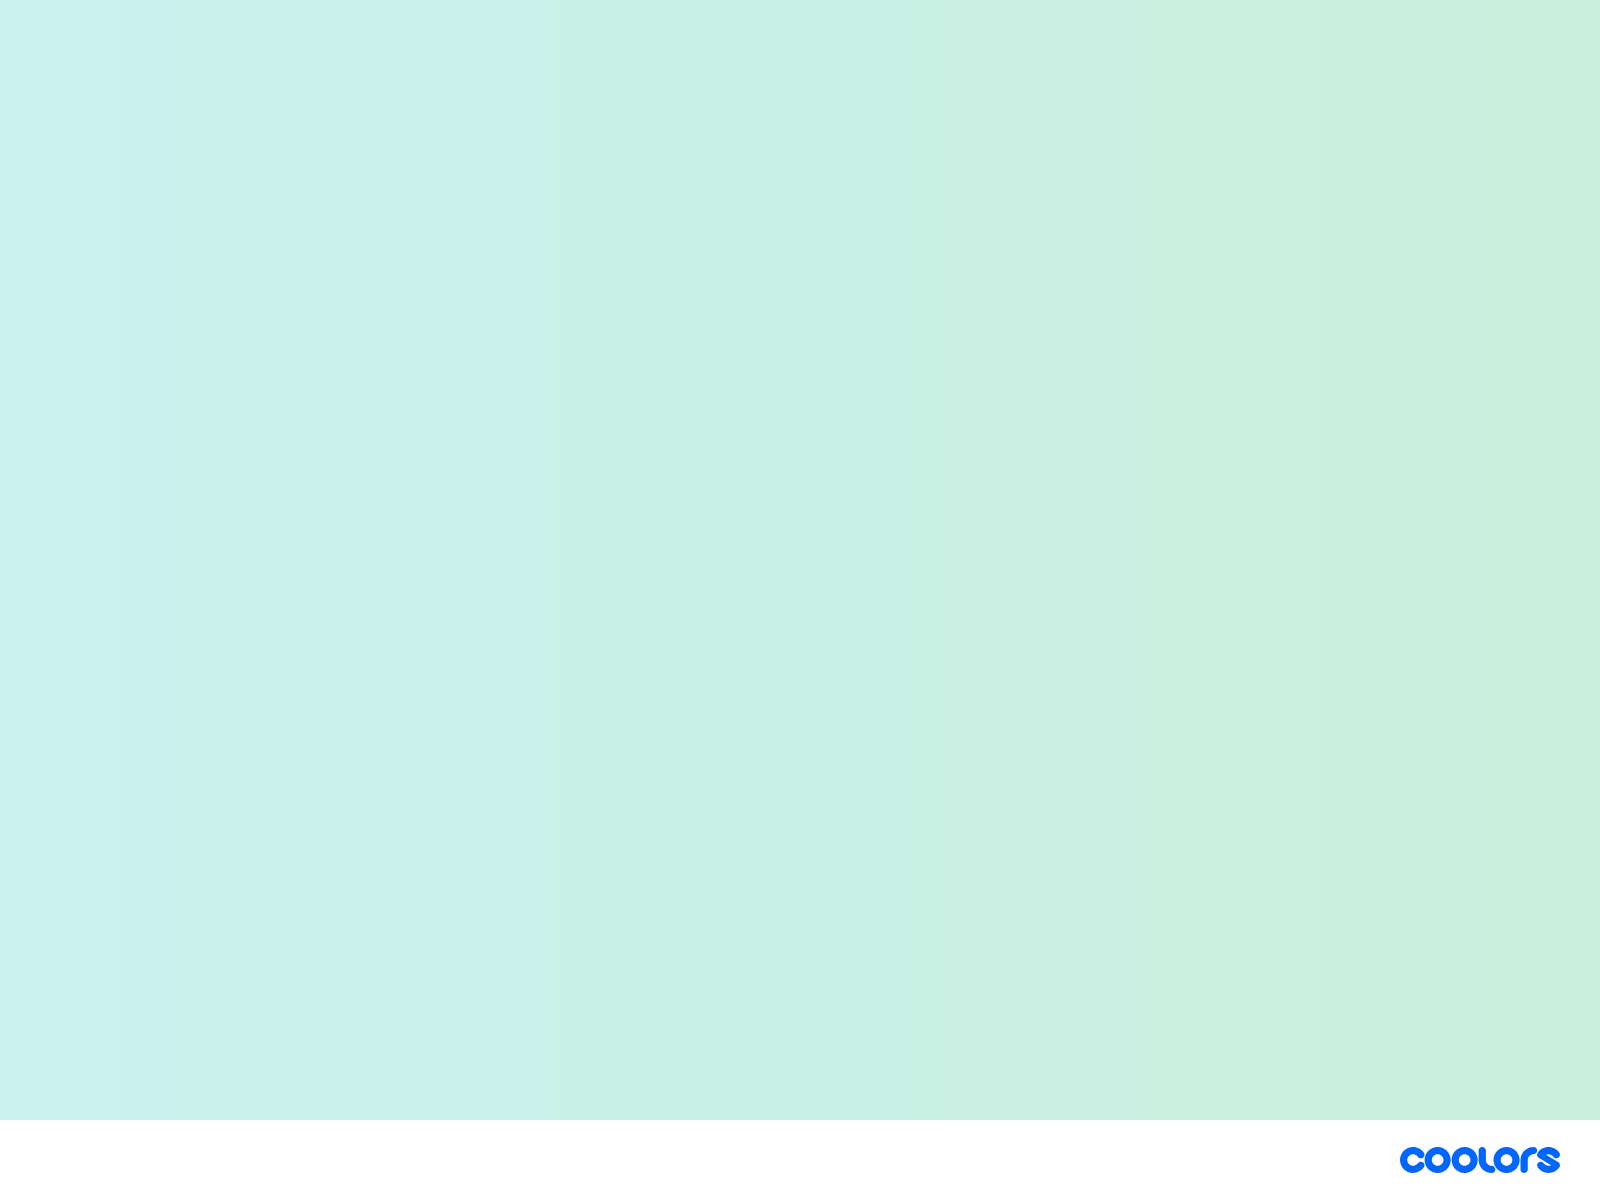
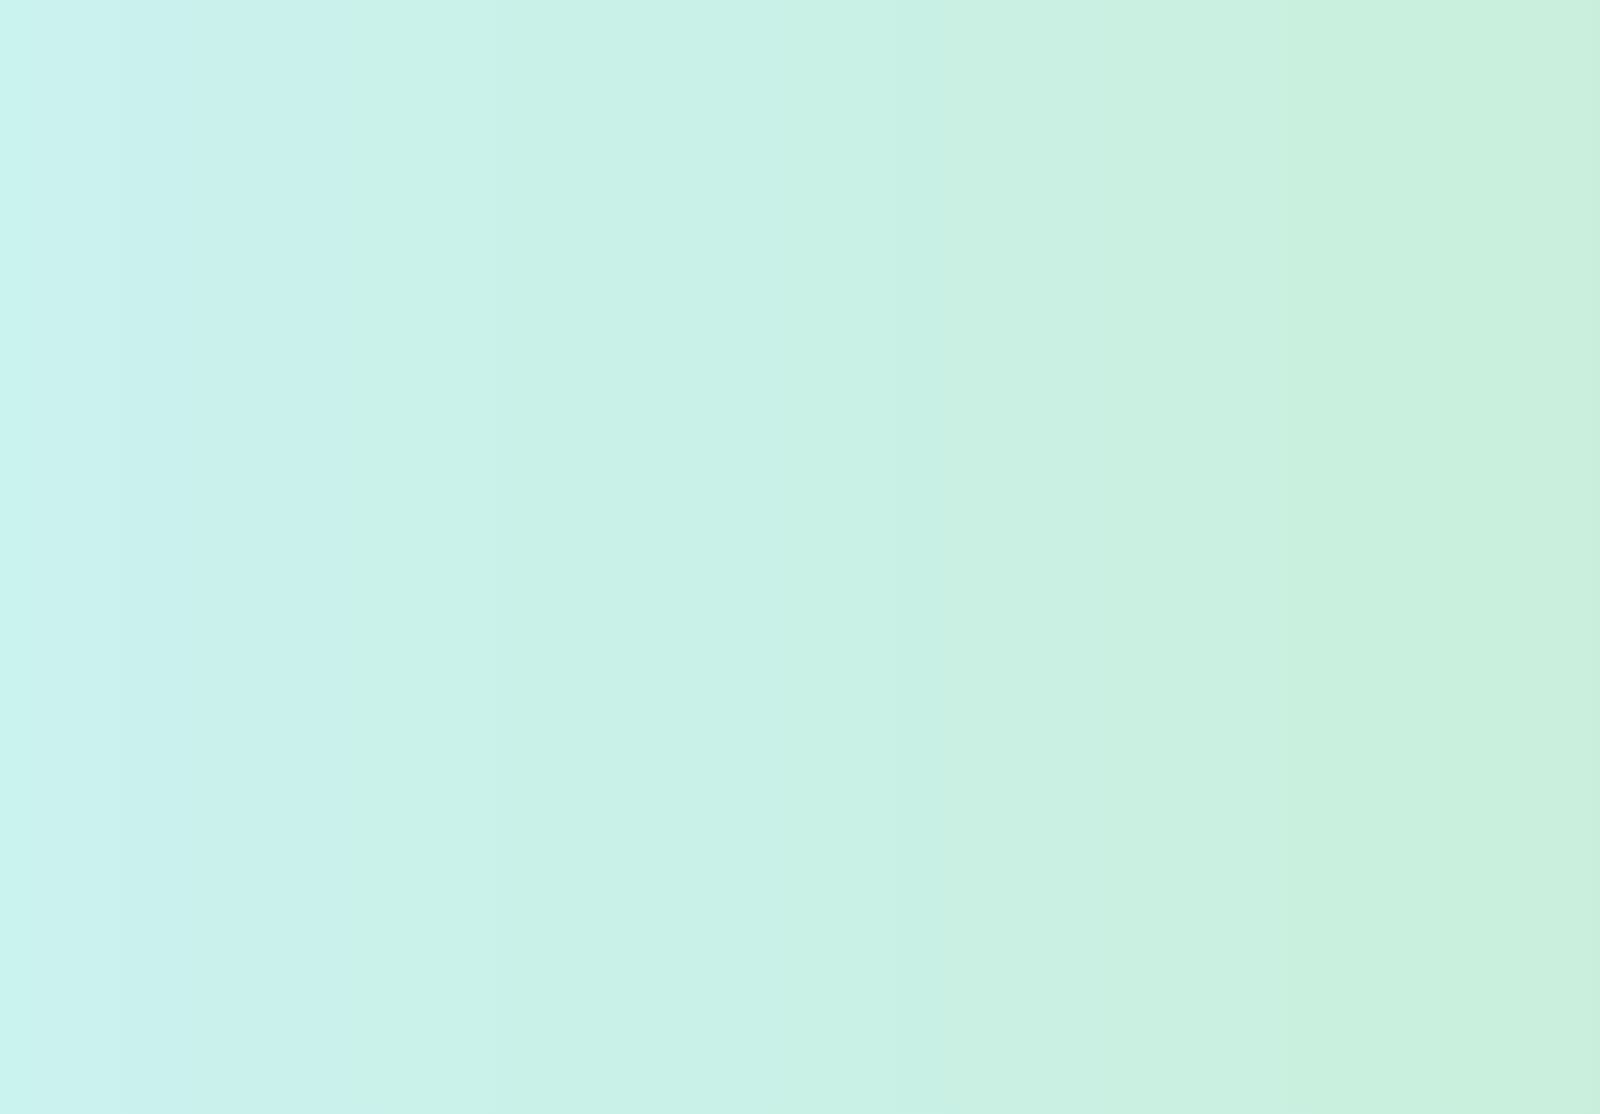
made form css

Changed region(s): [[0.0, 0.9156, 1.0, 1.0]]

diff --git a/form/stylesheet.css b/form/stylesheet.css
@@ -1,7 +1,7 @@
 
 body {
   font-family: Arial, sans-serif;
-  background-image: url(gradient.png);
+  background-image: url(empty-save-texture-room-light.jpg);
   /* background: linear-gradient(to left, #ffffff, #c5b3b3); */
   /* background-repeat: no-repeat; */
   /* background-size: cover;
@@ -187,8 +187,9 @@ body {
 .jumbotron {
   padding: 2rem 1rem;
   margin-bottom: 2rem;
-  background-color: #f86d0a;
-  border-radius: 0.3rem;
+  background-color: white;
+  
+  border-radius: 1.2rem;
 }
 @media (min-width: 576px) {
   .jumbotron {
@@ -200,3 +201,71 @@ body {
   padding-left: 0;
   border-radius: 0;
 }
+
+
+.form-group {
+  display: flex;
+  flex-direction: column;
+  align-items: flex-start;
+  width: 100%;
+  margin: 0 auto;
+}
+
+.input {
+  border: none;
+  /* outline: none; */
+  border-radius: 15px;
+  padding: 1em;
+  background-color: #f4f4f4;
+  box-shadow: 2px 5px 10px rgba(0, 0, 0, 0.3);
+  transition: 300ms ease-in-out;
+  width: 180%;
+  margin-top: 0.5em;
+}
+
+.input:focus {
+  background-color: white;
+  transform: scale(1.05);
+  box-shadow: 13px 13px 100px #969696, -13px -13px 100px#ffffff;
+}
+
+
+button {
+  display: inline-block;
+  border-radius: 4px;
+  background-color: #3d405b;
+  border: none;
+  color: #FFFFFF;
+  text-align: center;
+  font-size: 17px;
+  padding: 16px;
+  width: 130px;
+  transition: all 0.5s;
+  cursor: pointer;
+  margin: 5px;
+ }
+ 
+ button span {
+  cursor: pointer;
+  display: inline-block;
+  position: relative;
+  transition: 0.5s;
+ }
+ 
+ button span:after {
+  content: '»';
+  position: absolute;
+  opacity: 0;
+  top: 0;
+  right: -15px;
+  transition: 0.5s;
+ }
+ 
+ button:hover span {
+  padding-right: 15px;
+ }
+ 
+ button:hover span:after {
+  opacity: 1;
+  right: 0;
+ }

diff --git a/form/index.php b/form/index.php
@@ -1,9 +1,9 @@
 <?php
      include_once('easebuzz-lib\easebuzz_payment_gateway.php');
      if(isset($_POST['submit'])){
-      $name = $_POST['name'];
-      $email = $_POST['email'];
-      $phone = $_POST['phone'];
+      $name = $_POST['instadd'];
+      $email = $_POST['instemail'];
+      $phone = $_POST['principalno'];
       $amount = $_POST['amount'];
 
       $MERCHANT_KEY = "2PBP7IABZ2";  // S59212I6RX
@@ -47,7 +47,7 @@
 <html lang="en">
   <head>
     <title>PAI ROBO CHAMP</title>
-    <!-- Required meta tags -->
+    <!--   meta tags -->
     <meta charset="utf-8">
     <meta name="viewport" content="width=device-width, initial-scale=1, shrink-to-fit=no">
 
@@ -83,101 +83,102 @@
       <div class="col-sm-12 form-group">
   <form action="" method="post">
   <label for="name">Name of the Institute<span>*</span></label>
-          <input class="form-control" type="text" placeholder="Name of the Institute" name="nameinst" id="nameinst" required><br>
+          <input class="input" type="text" placeholder="Name of the Institute" name="nameinst" id="nameinst"  ><br><br>
 
           <label for="instadd" class="label">Institute Address <span>*</span></label>
-          <input class="form-control" type="text" placeholder="Institute Address" name="instadd" id="instadd" required><br>
+          <input class="input" type="text" placeholder="Institute Address" name="instadd" id="instadd"  ><br><br>
 
           <label for="instemail">Institute Email <span>*</span></label>
-          <input class="form-control" type="email" placeholder="Institute Email" name="instemail" id="instemail" required><br>
+          <input class="input" type="email" placeholder="Institute Email" name="instemail" id="instemail"  ><br><br>
 
           <label for="principal">Principal Name<span>*</span></label>
-          <input class="form-control" tyepe="text" placeholder="Principal Name" id="principal" name="principal" required></input><br>
+          <input class="input" tyepe="text" placeholder="Principal Name" id="principal" name="principal"  ></input><br><br>
 
           <label for="principalno">Principal Contact Number <span>*</span></label>
-          <input type="tel" class="form-control" name="principalno" id="principalno" placeholder="Principal Contact Number" required><br>
+          <input type="number" class="input" name="principalno" id="principalno" placeholder="Principal Contact Number"  ><br><br>
 
           <label for="teamname">Team Name <span>*</span></label>
-          <input type="text" class="form-control" onkeypress="numonly(event)" placeholder="Phone No: " name="teamname" id="teamname" required><br>
+          <input type="text" class="input" onkeypress="numonly(event)" placeholder="Phone No: " name="teamname" id="teamname"  ><br><br>
 
           <label for="mentorname">Mentor Name<span>*</span></label>
-          <input type="email" class="form-control" placeholder="Mentor Name" name="mentorname" id="mentorname" required><br>
+          <input type="text" class="input" placeholder="Mentor Name" name="mentorname" id="mentorname"  ><br><br>
 
           <label for="mentorno">Mentor Contact Number</label>
-          <input type="tel" class="form-control" placeholder="Mentor Contact Number" name="mentorno" id="mentorno" required> <br>
+          <input type="number" class="input" placeholder="Mentor Contact Number" name="mentorno" id="mentorno"  > <br><br>
 
           <label for="mentorquali">Mentor Qualification</label>
-          <input type="text" class="form-control" placeholder="Mentor Qualification" name="mentorquali" id="mentorquali" required> <br>
+          <input type="text" class="input" placeholder="Mentor Qualification" name="mentorquali" id="mentorquali"  > <br><br>
 
           <label for="mentoradhar">mentor Adhar (200kb File)</label>
-          <input type="file" class="form-control" placeholder="mentor Adhar (200kb File)" name="mentoradhar" id="mentoradhar" required> <br>
+          <input type="file" class="input" placeholder="mentor Adhar (200kb File)" name="mentoradhar" id="mentoradhar"  > <br><br>
 
           <label for="stdfirstna">Teammate Members Details <br> 1) </label>
-          <input type="text" class="form-control" placeholder="Name of first Student" name="stdfirstna" id="stdfirstna" required> <br>
+          <input type="text" class="input" placeholder="Name of first Student" name="stdfirstna" id="stdfirstna"  > <br><br>
 
           <label for="stdfirstph"> Student Photo (200kb File)</label>
-          <input type="file" class="form-control" placeholder="student Photot" name="stdfirstph" id="stdfirstph" required> <br>
+          <input type="file" class="input" placeholder="student Photot" name="stdfirstph" id="stdfirstph"  > <br><br>
 
           <label for="stdagefirst"> Student Age</label>
-          <input type="number" class="form-control" placeholder="Student Age" name="stdagefirst" id="stdagefirst" required> <br>
+          <input type="number" maxlength="2" minlength="1" class="input" placeholder="Student Age" name="stdagefirst" id="stdagefirst"  > <br> <br>
 
           <label for="stddivfirst"> Student Class Division</label>
-          <input type="text" class="form-control" placeholder="Student Class Division" name="stddivfirst" id="stddivfirst" required> <br>
+          <input type="text" class="input" placeholder="Student Class Division" name="stddivfirst" id="stddivfirst"  > <br> <br>
 
 
           <label for="stdsecna">2) <br> Name of the Student  </label>
-          <input type="text" class="form-control" placeholder="Name of first Student" name="stdfirstdsecnastna" id="stdsecna" required> <br>
+          <input type="text" class="input" placeholder="Name of first Student" name="stdfirstdsecnastna" id="stdsecna"  > <br> <br>
 
           <label for="stdsecph"> Student Photo (200kb File)</label>
-          <input type="file" class="form-control" placeholder="student Photot" name="stdsecph" id="stdsecph" required> <br>
+          <input type="file" class="input" placeholder="student Photot" name="stdsecph" id="stdsecph"  > <br><br>
 
           <label for="stdagesec"> Student Age</label>
-          <input type="number" class="form-control" placeholder="Student Age" name="stdagesec" id="stdagesec" required> <br>
+          <input type="number" class="input" placeholder="Student Age" name="stdagesec" id="stdagesec"  > <br> <br>
 
           <label for="stddivsec"> Student Class Division</label>
-          <input type="text" class="form-control" placeholder="Student Class Division" name="stddivsec" id="stddivsec" required> <br>
+          <input type="text" class="input" placeholder="Student Class Division" name="stddivsec" id="stddivsec"  > <br> <br>
 
           <label for="stdthridna">3) <br> Name of the student </label>
-          <input type="text" class="form-control" placeholder="Name of first Student" name="stdthridna" id="stdthridna" required> <br>
+          <input type="text" class="input" placeholder="Name of first Student" name="stdthridna" id="stdthridna"  > <br> <br>
 
           <label for="stdthridph"> Student Photo (200kb File)</label>
-          <input type="file" class="form-control" placeholder="student Photot" name="stdthridph" id="stdthridph" required> <br>
+          <input type="file" class="input" placeholder="student Photot" name="stdthridph" id="stdthridph"  > <br> <br>
 
           <label for="stdagethrid"> Student Age</label>
-          <input type="number" class="form-control" placeholder="Student Age" name="stdagethrid" id="stdagethrid" required> <br>
+          <input type="number" class="input" placeholder="Student Age" name="stdagethrid" id="stdagethrid"  > <br> <br>
 
           <label for="stddivthrid"> Student Class Division</label>
-          <input type="text" class="form-control" placeholder="Student Class Division" name="stddivthrid" id="stddivthrid" required> <br>
+          <input type="text" class="input" placeholder="Student Class Division" name="stddivthrid" id="stddivthrid"  > <br> <br>
 
 
           <label for="stdfourtna">4) <br> Name of the Student  </label>
-          <input type="text" class="form-control" placeholder="Name of first Student" name="stdfourtna" id="stdfourtna" required> <br>
+          <input type="text" class="input" placeholder="Name of first Student" name="stdfourtna" id="stdfourtna"  > <br> <br>
 
           <label for="stdfourtph"> Student Photo (200kb File)</label>
-          <input type="file" class="form-control" placeholder="student Photo" name="stdfourtph" id="stdfourtph" required> <br>
+          <input type="file" class="input" placeholder="student Photo" name="stdfourtph" id="stdfourtph"  > <br> <br>
 
           <label for="stdagefourt"> Student Age</label>
-          <input type="number" class="form-control" placeholder="Student Age" name="stdagefourt" id="stdagefourt" required> <br>
+          <input type="number" class="input" placeholder="Student Age" name="stdagefourt" id="stdagefourt"  > <br> <br>
 
           <label for="stddivfourt"> Student Class Division</label>
-          <input type="text" class="form-control" placeholder="Student Class Division" name="stddivfourt" id="stddivfourt" required> <br>
+          <input type="text" class="input" placeholder="Student Class Division" name="stddivfourt" id="stddivfourt"  > <br> <br>
 
           <label for="stdfifthna">5) <br> Name of the Student  </label>
-          <input type="text" class="form-control" placeholder="Name of first Student" name="stdfifthna" id="stdfifthna" required> <br>
+          <input type="text" class="input" placeholder="Name of first Student" name="stdfifthna" id="stdfifthna"  > <br> <br>
 
           <label for="stdfifthph"> Student Photo (200kb File)</label>
-          <input type="file" class="form-control" placeholder="student Photo" name="stdfifthph" id="stdfifthph" required> <br>
+          <input type="file" class="input" placeholder="student Photo" name="stdfifthph" id="stdfifthph"  > <br> <br>
 
           <label for="stdagefifth"> Student Age</label>
-          <input type="number" class="form-control" placeholder="Student Age" name="stdagefifth" id="stdagefifth" required> <br>
+          <input type="number" class="input" placeholder="Student Age" name="stdagefifth" id="stdagefifth"  > <br> <br>
 
           <label for="stddivfifth"> Student Class Division</label>
-          <input type="text" class="form-control" placeholder="Student Class Division" name="stddivfifth" id="stddivfifth" required> <br>
+          <input type="text" class="input" placeholder="Student Class Division" name="stddivfifth" id="stddivfifth"  > <br> <br>
 
     <label for="amount">Amount:</label>
-    <input class="form-control" type="number" name="amount" id="amount" value="2000" readonly>
-    <br>
-    <input class="btn btn-success me-md-2" type="submit" value="submit" name="submit">
+    <input class="input" type="number" name="amount" id="amount" value="2000" readonly>
+    <br><br><br>
+    <button value="submit" name="submit" type="submit">Submit</button>
+    <!-- <input class="btn btn-success me-md-2" type="submit" value="submit" name="submit"> -->
     <input class="btn btn-primary me-md-2" type="reset" value="reset" name="reset">
     </form>
 

diff --git a/form/header.php b/form/header.php
@@ -2,30 +2,41 @@
 <!DOCTYPE html>
 <html>
 <head>
+
+<style>
+    img{
+    max-width: 100%; /* Make the images responsive */
+    height: auto; /* Maintain aspect ratio */
+                                         }
+
+
+</style>
     <!-- Include Bootstrap CSS -->
     <link rel="stylesheet" href="https://maxcdn.bootstrapcdn.com/bootstrap/4.5.2/css/bootstrap.min.css">
     <link rel="stylesheet" href="stylesheet.css">
     <meta name="viewport" content="width=device-width, initial-scale=1, maximum-scale=1, user-scalable=no">
 </head>
 <body>
-    <nav class="navbar navbar-expand-lg navbar-light bg-white">
+
+<img src="header.png" alt="header image">
+    <!-- <nav class="navbar navbar-expand-lg navbar-light bg-white">
         <div class="container">
-            <!-- Logo and Website Name -->
+             Logo and Website Name 
             <a class="navbar-brand" href="#">
                 <img src="http://localhost:8080/paiict\wp-content\uploads\2023\08\PAI-ROBO-CHAMPS-logo.png" class="img-fluid" width="30" height="30" alt="Logo">
                 PAI-ROBO CHAMP 2023
             </a>
             
-            <!-- Responsive Navbar Toggle Button -->
+             Responsive Navbar Toggle Button 
             <button class="navbar-toggler" type="button" data-toggle="collapse" data-target="#navbarNav" aria-controls="navbarNav" aria-expanded="false" aria-label="Toggle navigation">
                 <span class="navbar-toggler-icon"></span>
             </button>
             
-            <!-- Navbar Links -->
+             Navbar Links
             <div class="collapse navbar-collapse" id="navbarNav">
             </div>
         </div>
-    </nav>
+    </nav> -->
     
     <!-- Include Bootstrap JS and jQuery if needed -->
     <script src="https://ajax.googleapis.com/ajax/libs/jquery/3.5.1/jquery.min.js"></script>
